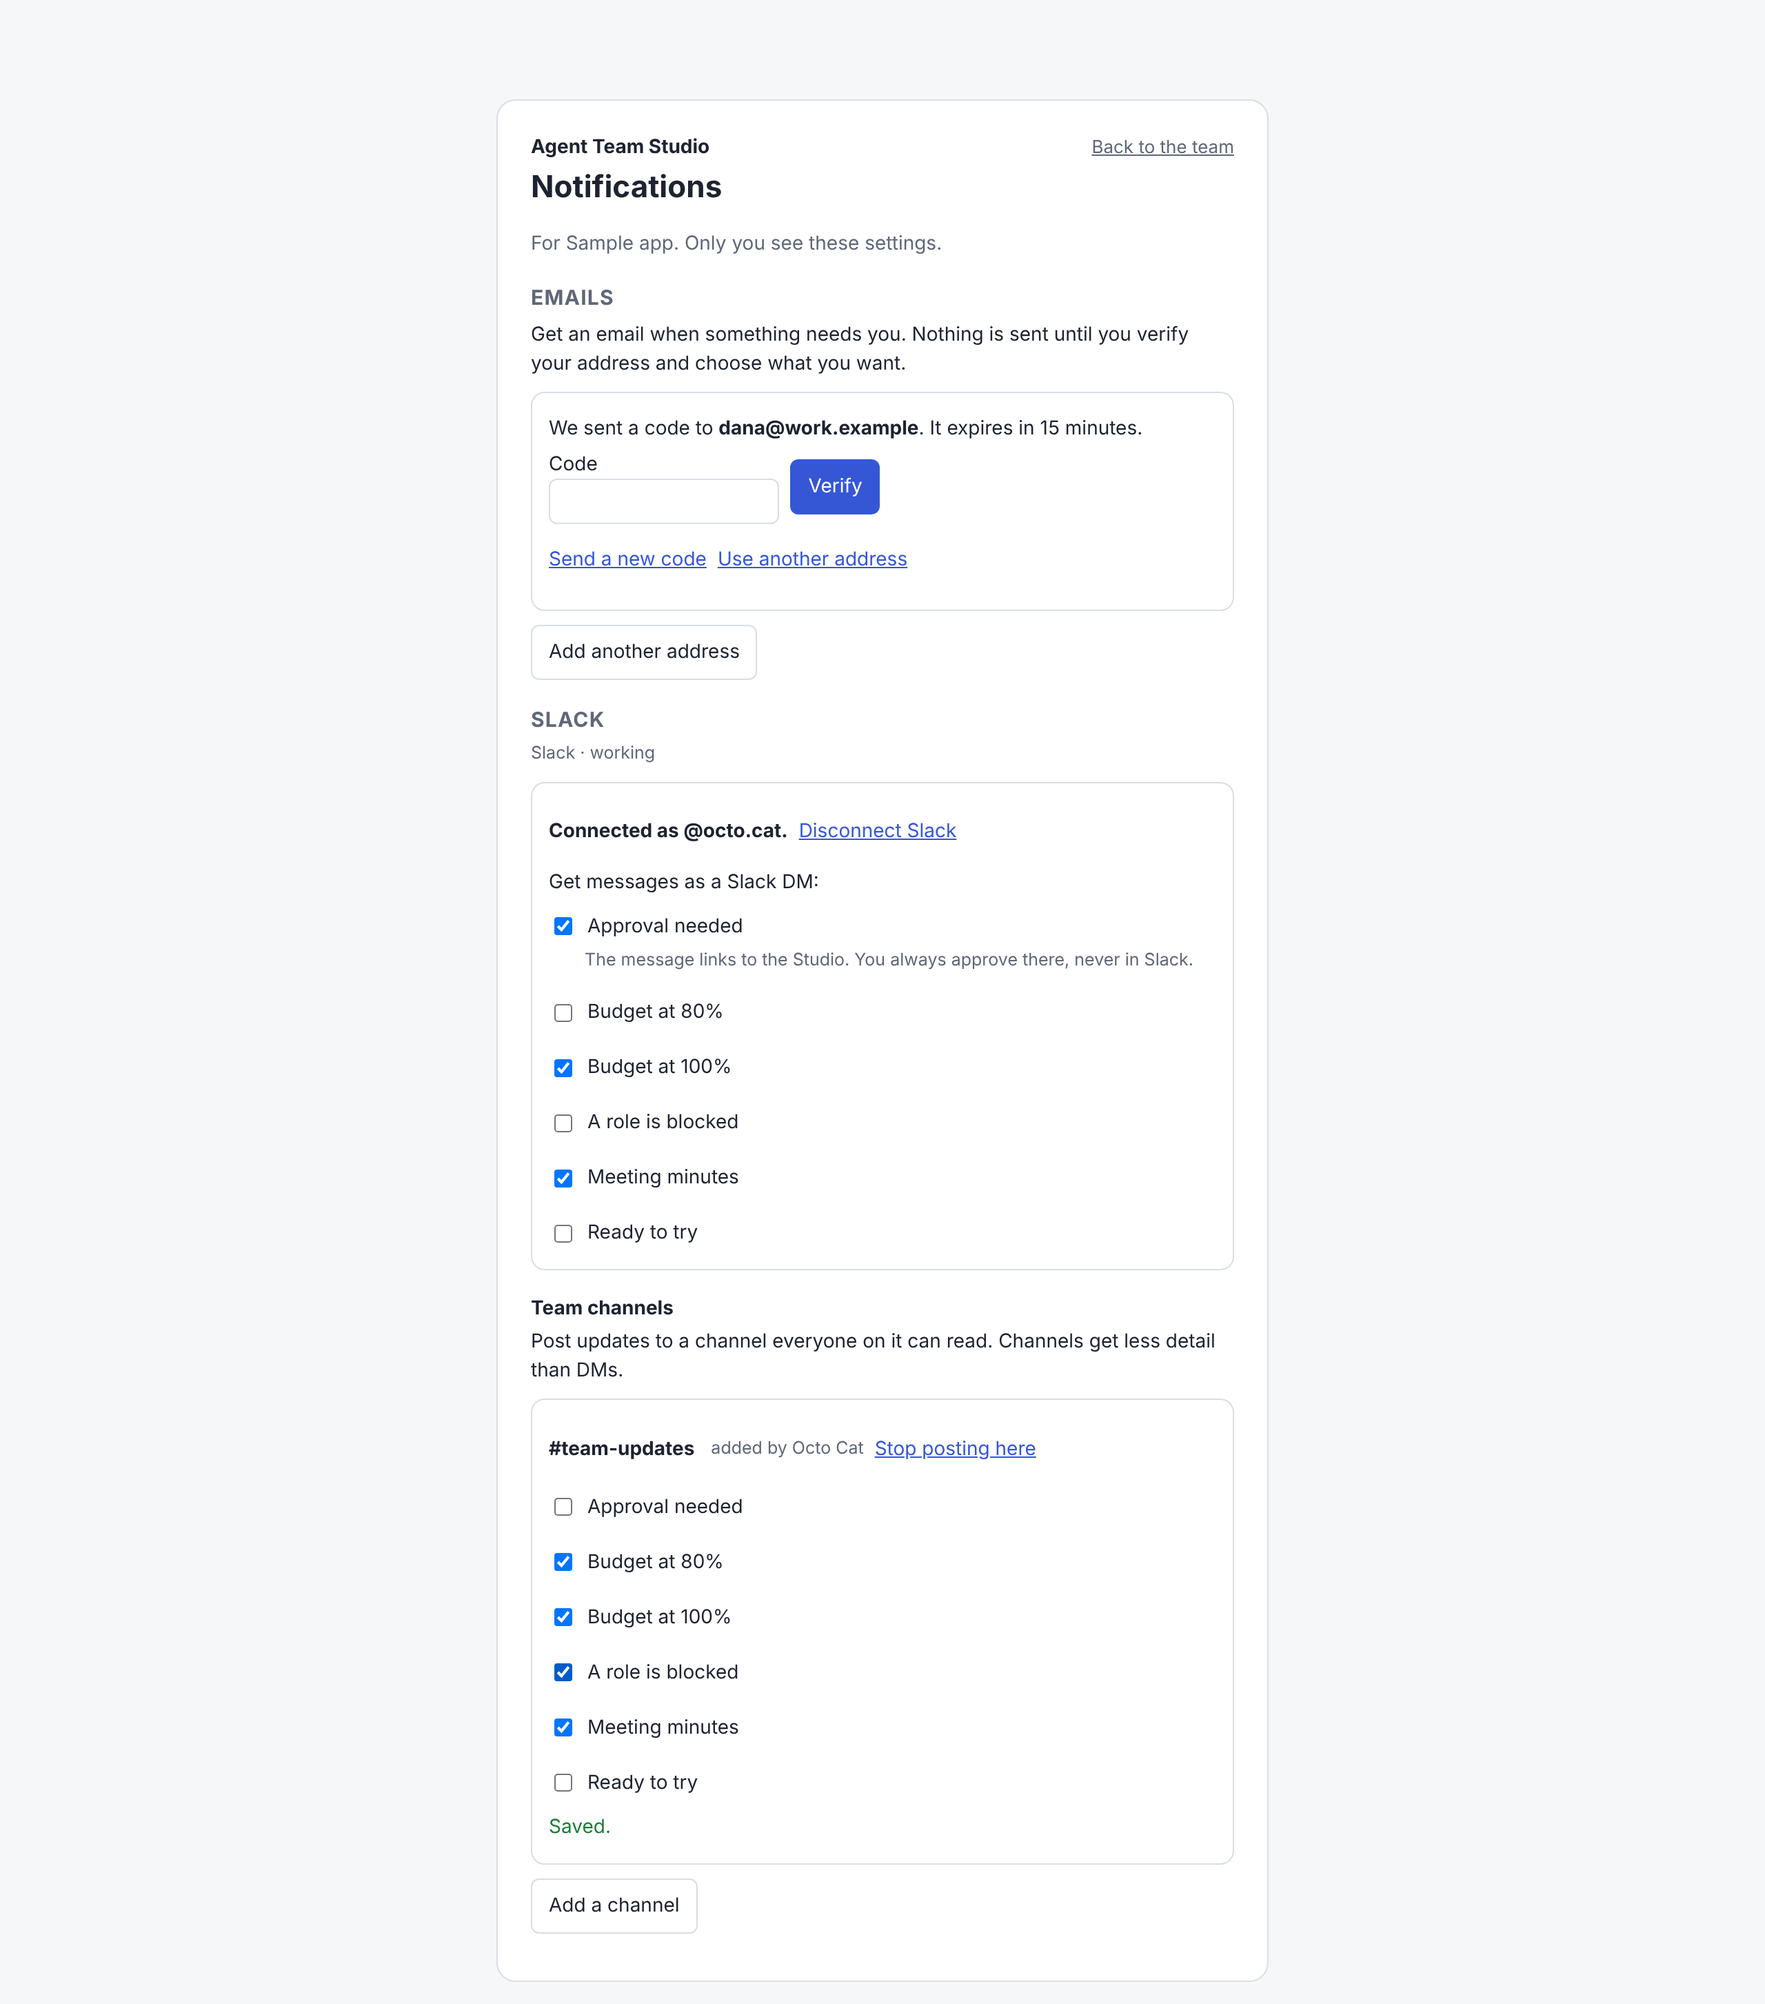
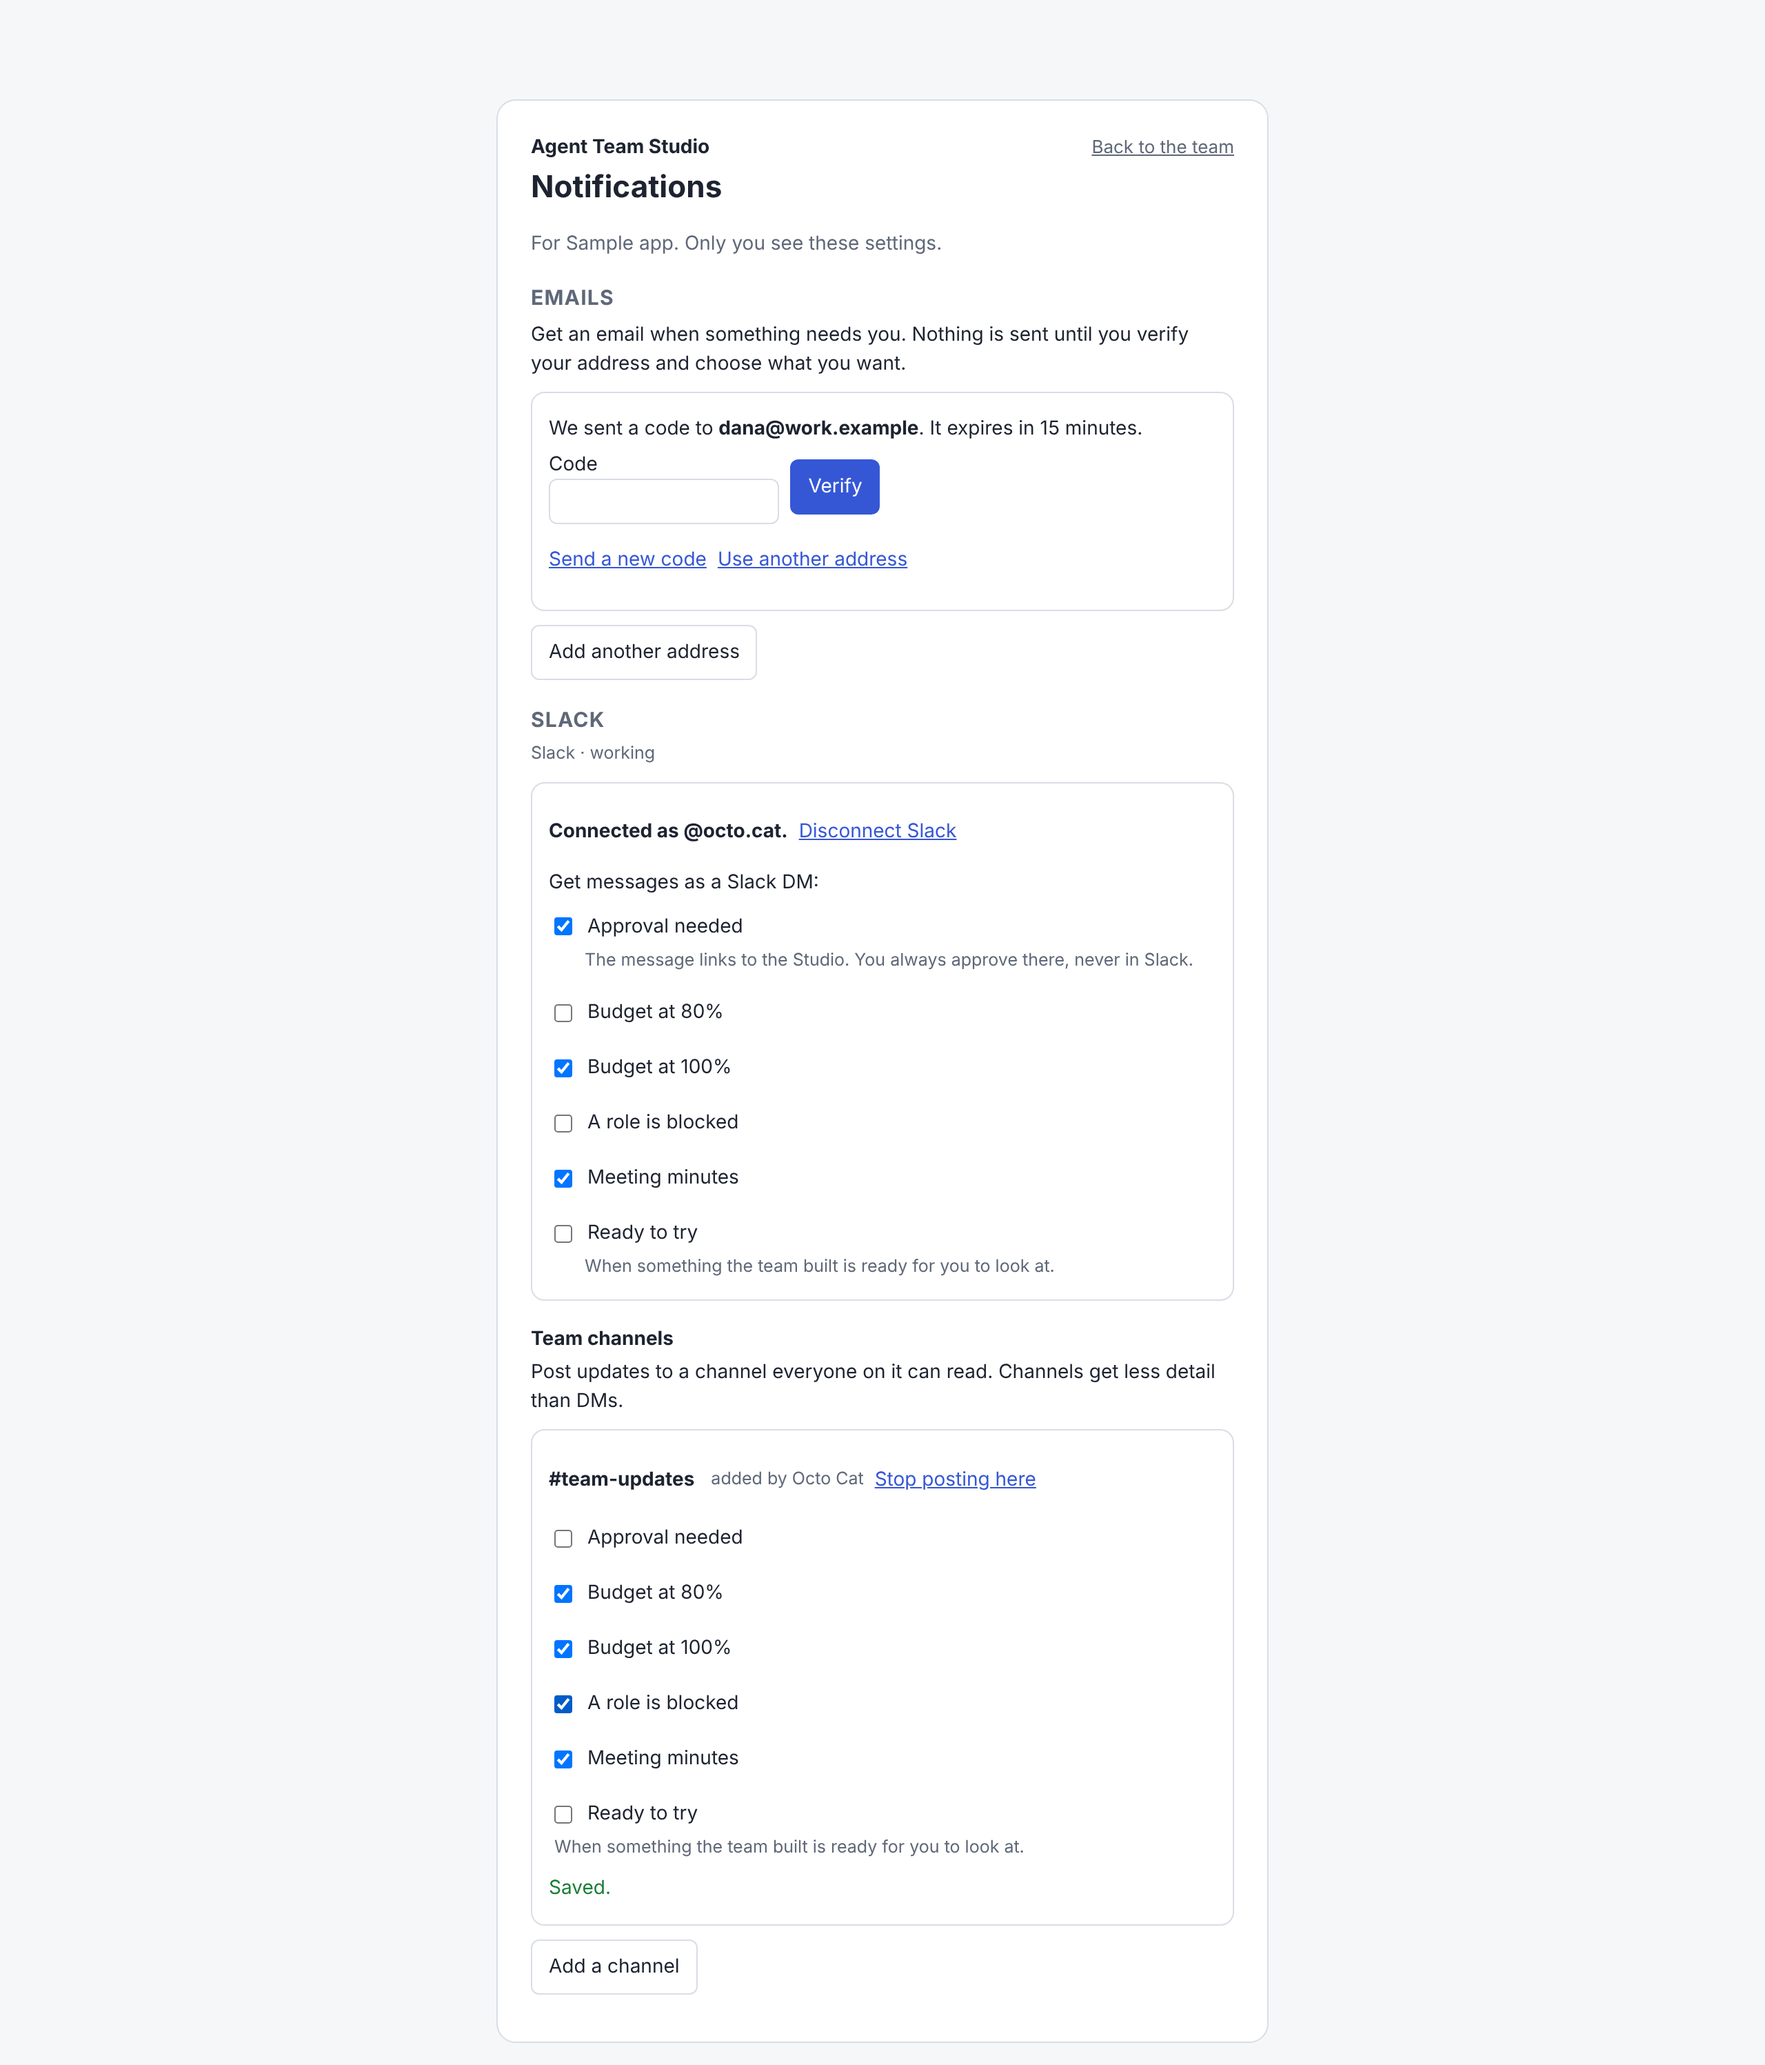
Slack section: CPO copy round 1 (Ready to try hint, channel invite hint)
Claude-Session: https://claude.ai/code/session_01CtT1rLNW9YJYwkYiXvhcVj

Changed region(s): [[0.2812, 0.0619, 0.6875, 0.9601], [0.5, 0.4646, 0.6562, 0.4955], [0.625, 0.0619, 0.6875, 0.0929]]

diff --git a/apps/studio/public/notifications.js b/apps/studio/public/notifications.js
@@ -70,7 +70,8 @@ export function emailsHtml(st) {
 // ------------------------------------------------------------------------------------------------ Slack
 
 /** Words under a kind's Slack DM switch (copy, CPO Slack story). */
-const UNDER_SLACK = { approval: 'The message links to the Studio. You always approve there, never in Slack.' };
+const READY_HINT = 'When something the team built is ready for you to look at.';
+const UNDER_SLACK = { approval: 'The message links to the Studio. You always approve there, never in Slack.', ready: READY_HINT };
 /** The kinds a new channel starts with: what the server says (budget and minutes; approval and BLOCKED off, D58). */
 export const channelDefaults = (kinds) => new Set(kinds.filter((k) => k.channelDefault).map((k) => k.id));
 /** Where Connect Slack may send the browser: Slack's own sign-in, over https, nowhere else. */
@@ -127,14 +128,14 @@ export function slackHtml(st) {
   if (Array.isArray(st.channels)) {
     const rows = st.channels.map((c) => `<div class="n-address n-channel" data-channel="${esc(c.id)}">
         <p class="row"><strong>#${esc(c.name)}</strong> <span class="hint">added by ${esc(c.addedBy || 'an admin')}</span> <button type="button" class="link" data-channel-remove="${esc(c.id)}">Stop posting here</button></p>
-        <ul class="plain n-kinds">${kindRows(`data-channel-kind="${esc(c.id)}"`, new Set(c.kinds))}</ul>
+        <ul class="plain n-kinds">${kindRows(`data-channel-kind="${esc(c.id)}"`, new Set(c.kinds), { ready: READY_HINT })}</ul>
         ${note(`ch:${c.id}`)}</div>`).join('');
     const add = st.addingChannel
       ? `<form id="channel-add" class="n-address">
           <p class="row"><label>Channel name <input name="name" required maxlength="80" placeholder="team-updates" autocomplete="off"></label>
           <label>Channel ID <input name="channel" required pattern="[CG][A-Z0-9]{2,20}" placeholder="C0123ABCD" autocomplete="off"></label></p>
-          <p class="hint">In Slack, open the channel's details: the ID is at the bottom. Invite the Slack app to the channel first.</p>
-          <ul class="plain n-kinds">${kindRows('data-new-channel', channelDefaults(s.kinds))}</ul>
+          <p class="hint">In Slack, open the channel's details: the ID is at the bottom. Invite the team's Slack app to the channel first (type /invite @ and the app's name in the channel).</p>
+          <ul class="plain n-kinds">${kindRows('data-new-channel', channelDefaults(s.kinds), { ready: READY_HINT })}</ul>
           <p class="row"><button type="submit" class="primary">Add the channel</button> <button type="button" id="channel-cancel">Cancel</button></p>
           ${note('channel-add')}</form>`
       : `<p><button type="button" id="channel-new">Add a channel</button></p>${note('channel-add')}`;
